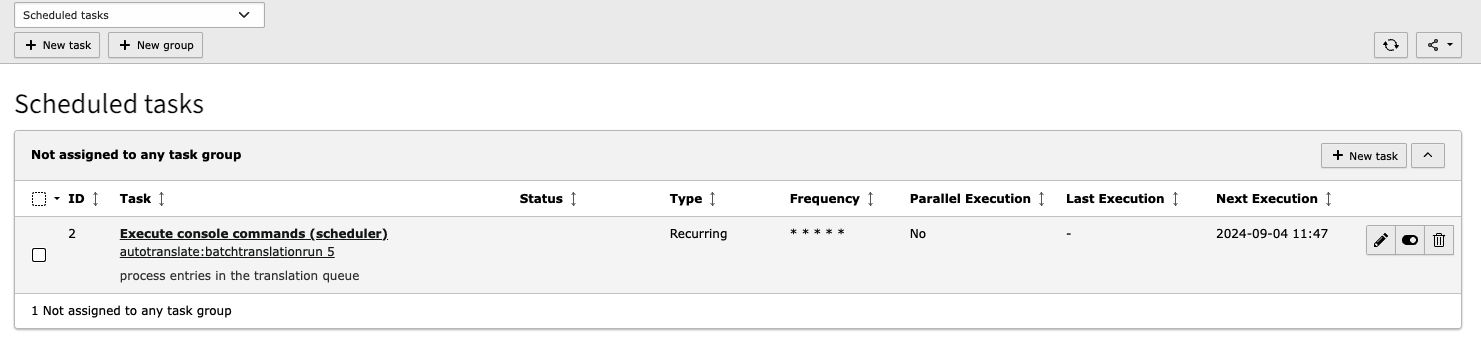
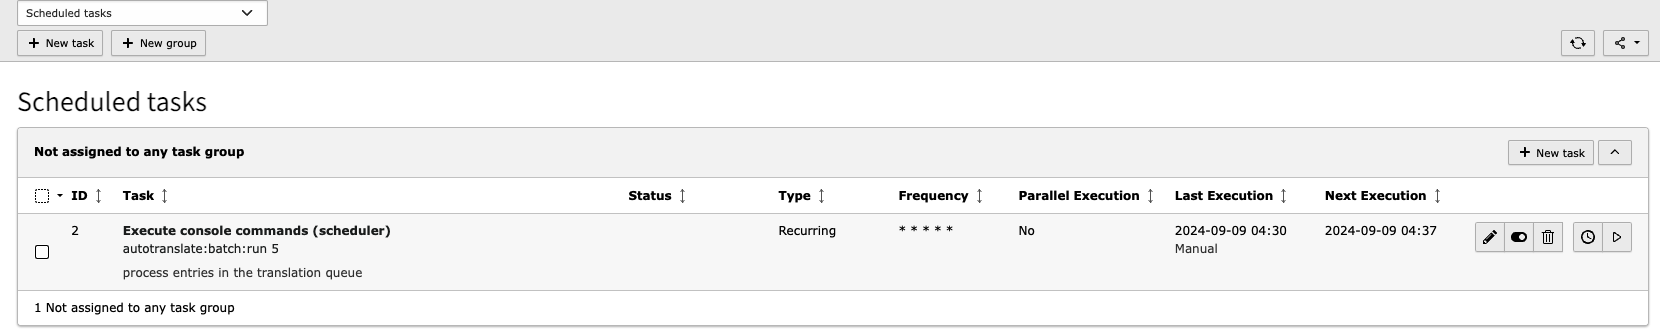
feat(batchtranslation): adjust docu

diff --git a/Documentation/BatchTranslation/Readme.md b/Documentation/BatchTranslation/Readme.md
@@ -19,7 +19,6 @@ You have the option of processing the Symfony command in the TYPO3 scheduler and
 
 ![DeepL](../Images/BatchTranslationCommand.png)
 
-You can of course also run the symfony command directly via Cronjob or via the command line interface of your web server.
-The argument here stands for the number of translations per run.
+You can of course also execute the Symfony command directly via cronjob or via the command line interface of your web server. The argument here represents the number of translations per run.
 
-```autotranslate:batchtranslationrun 5```
+```autotranslate:batch:run 5```
